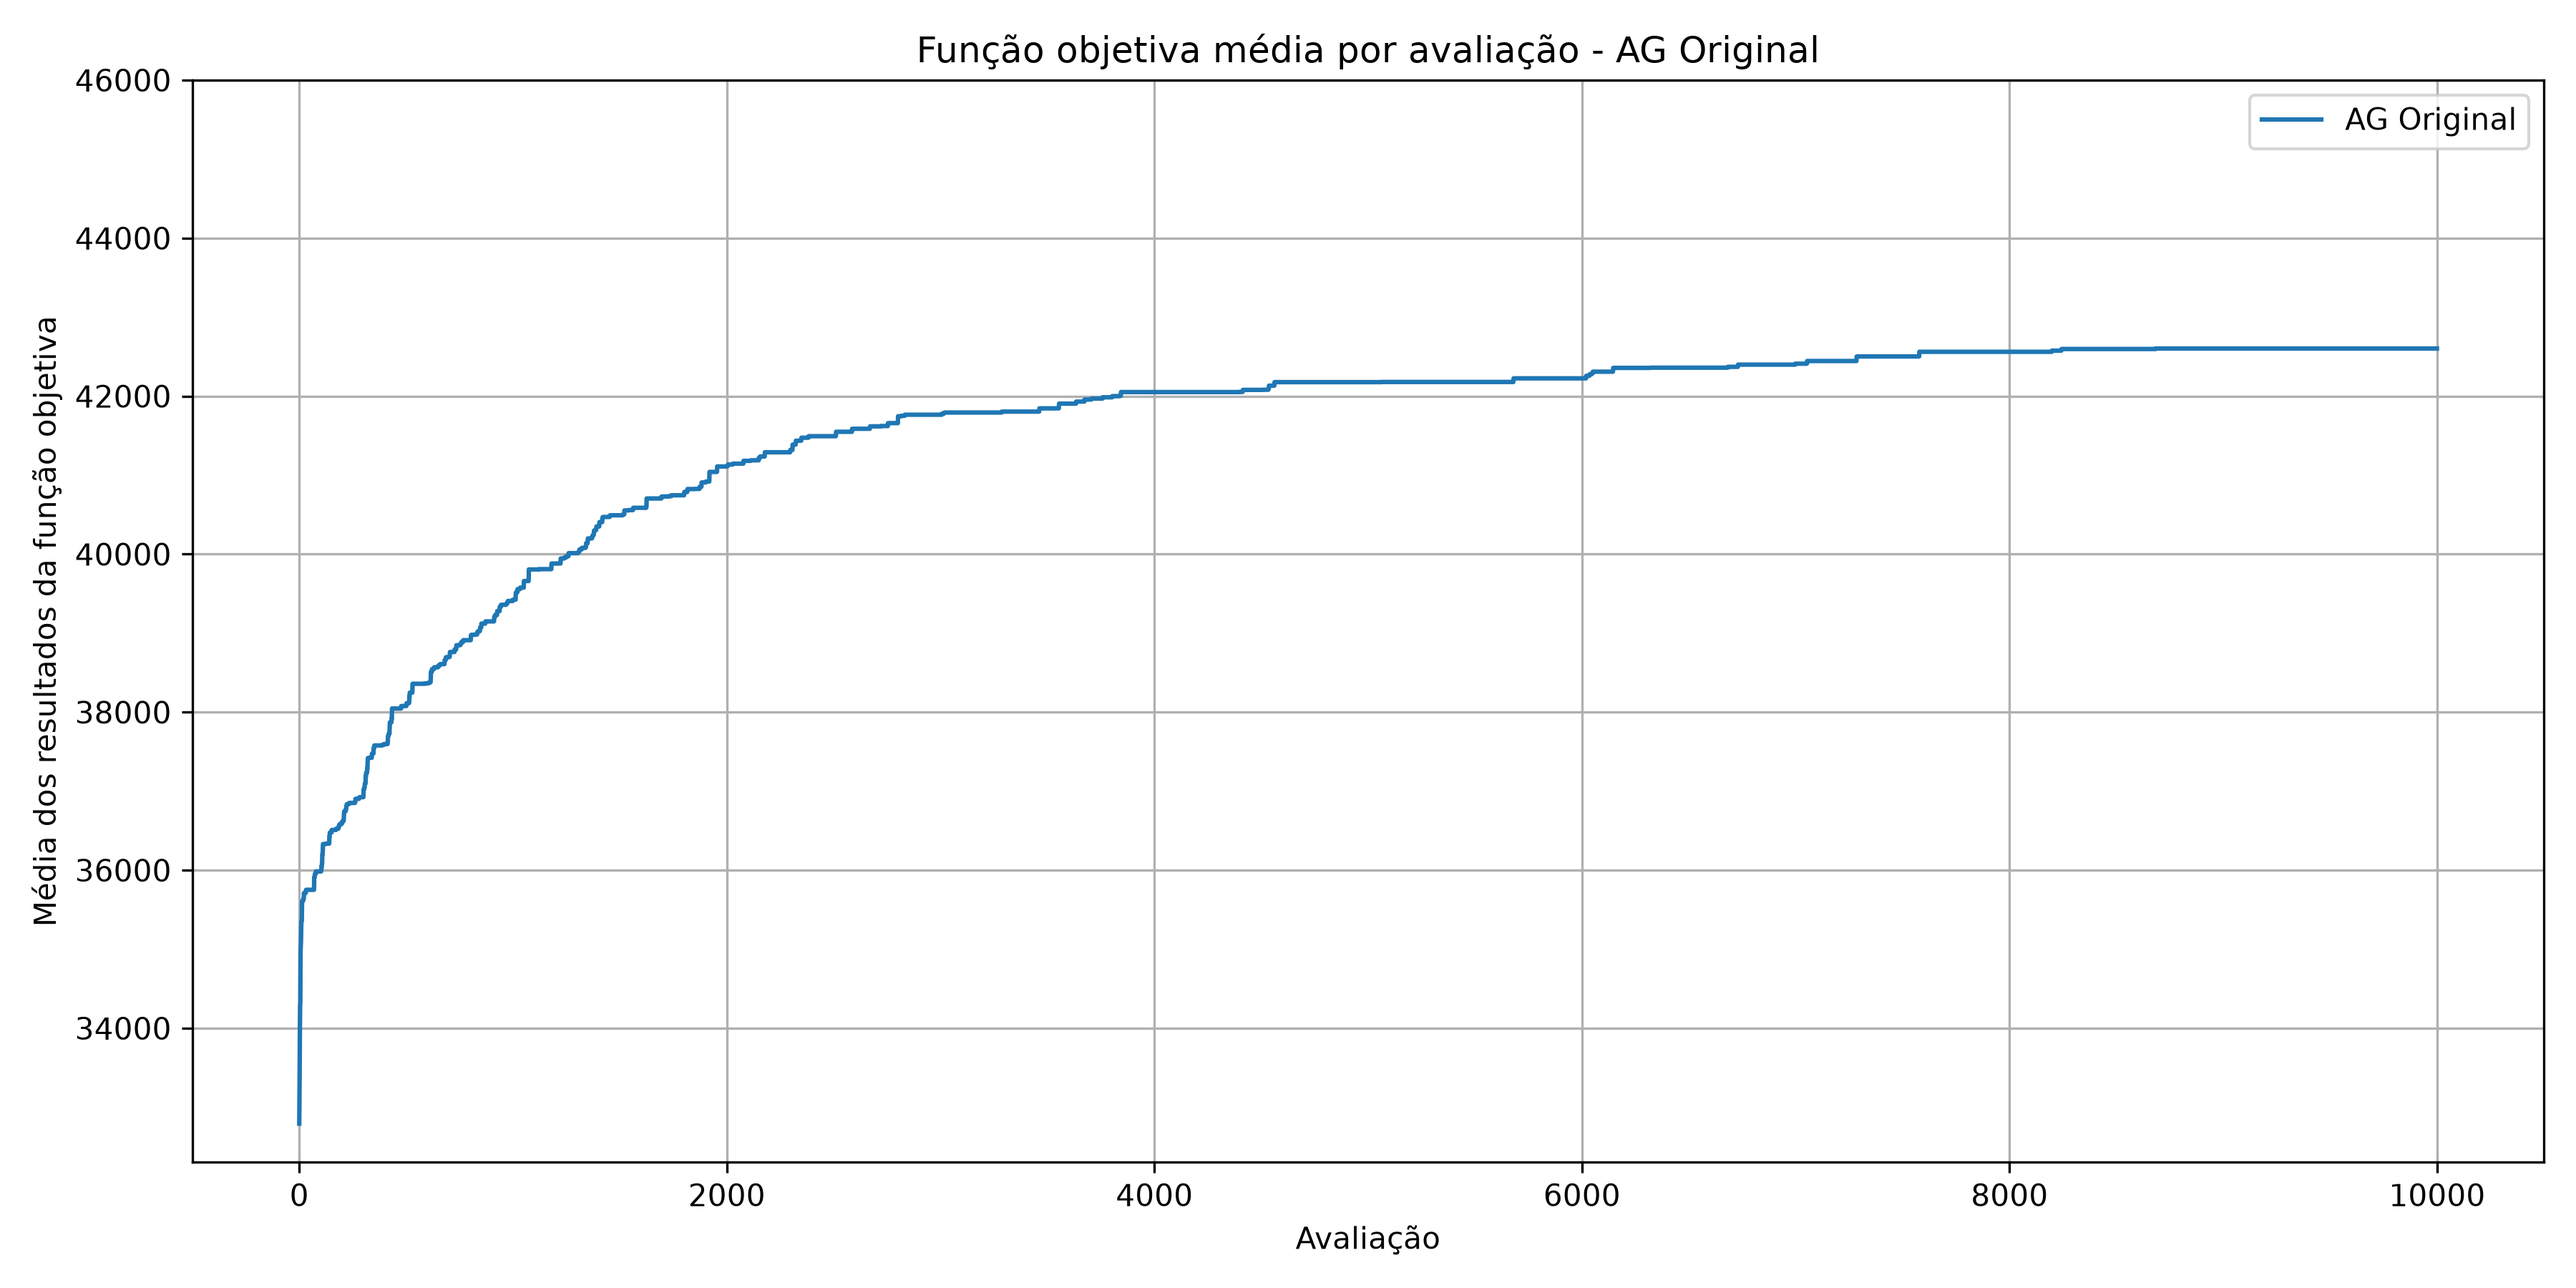
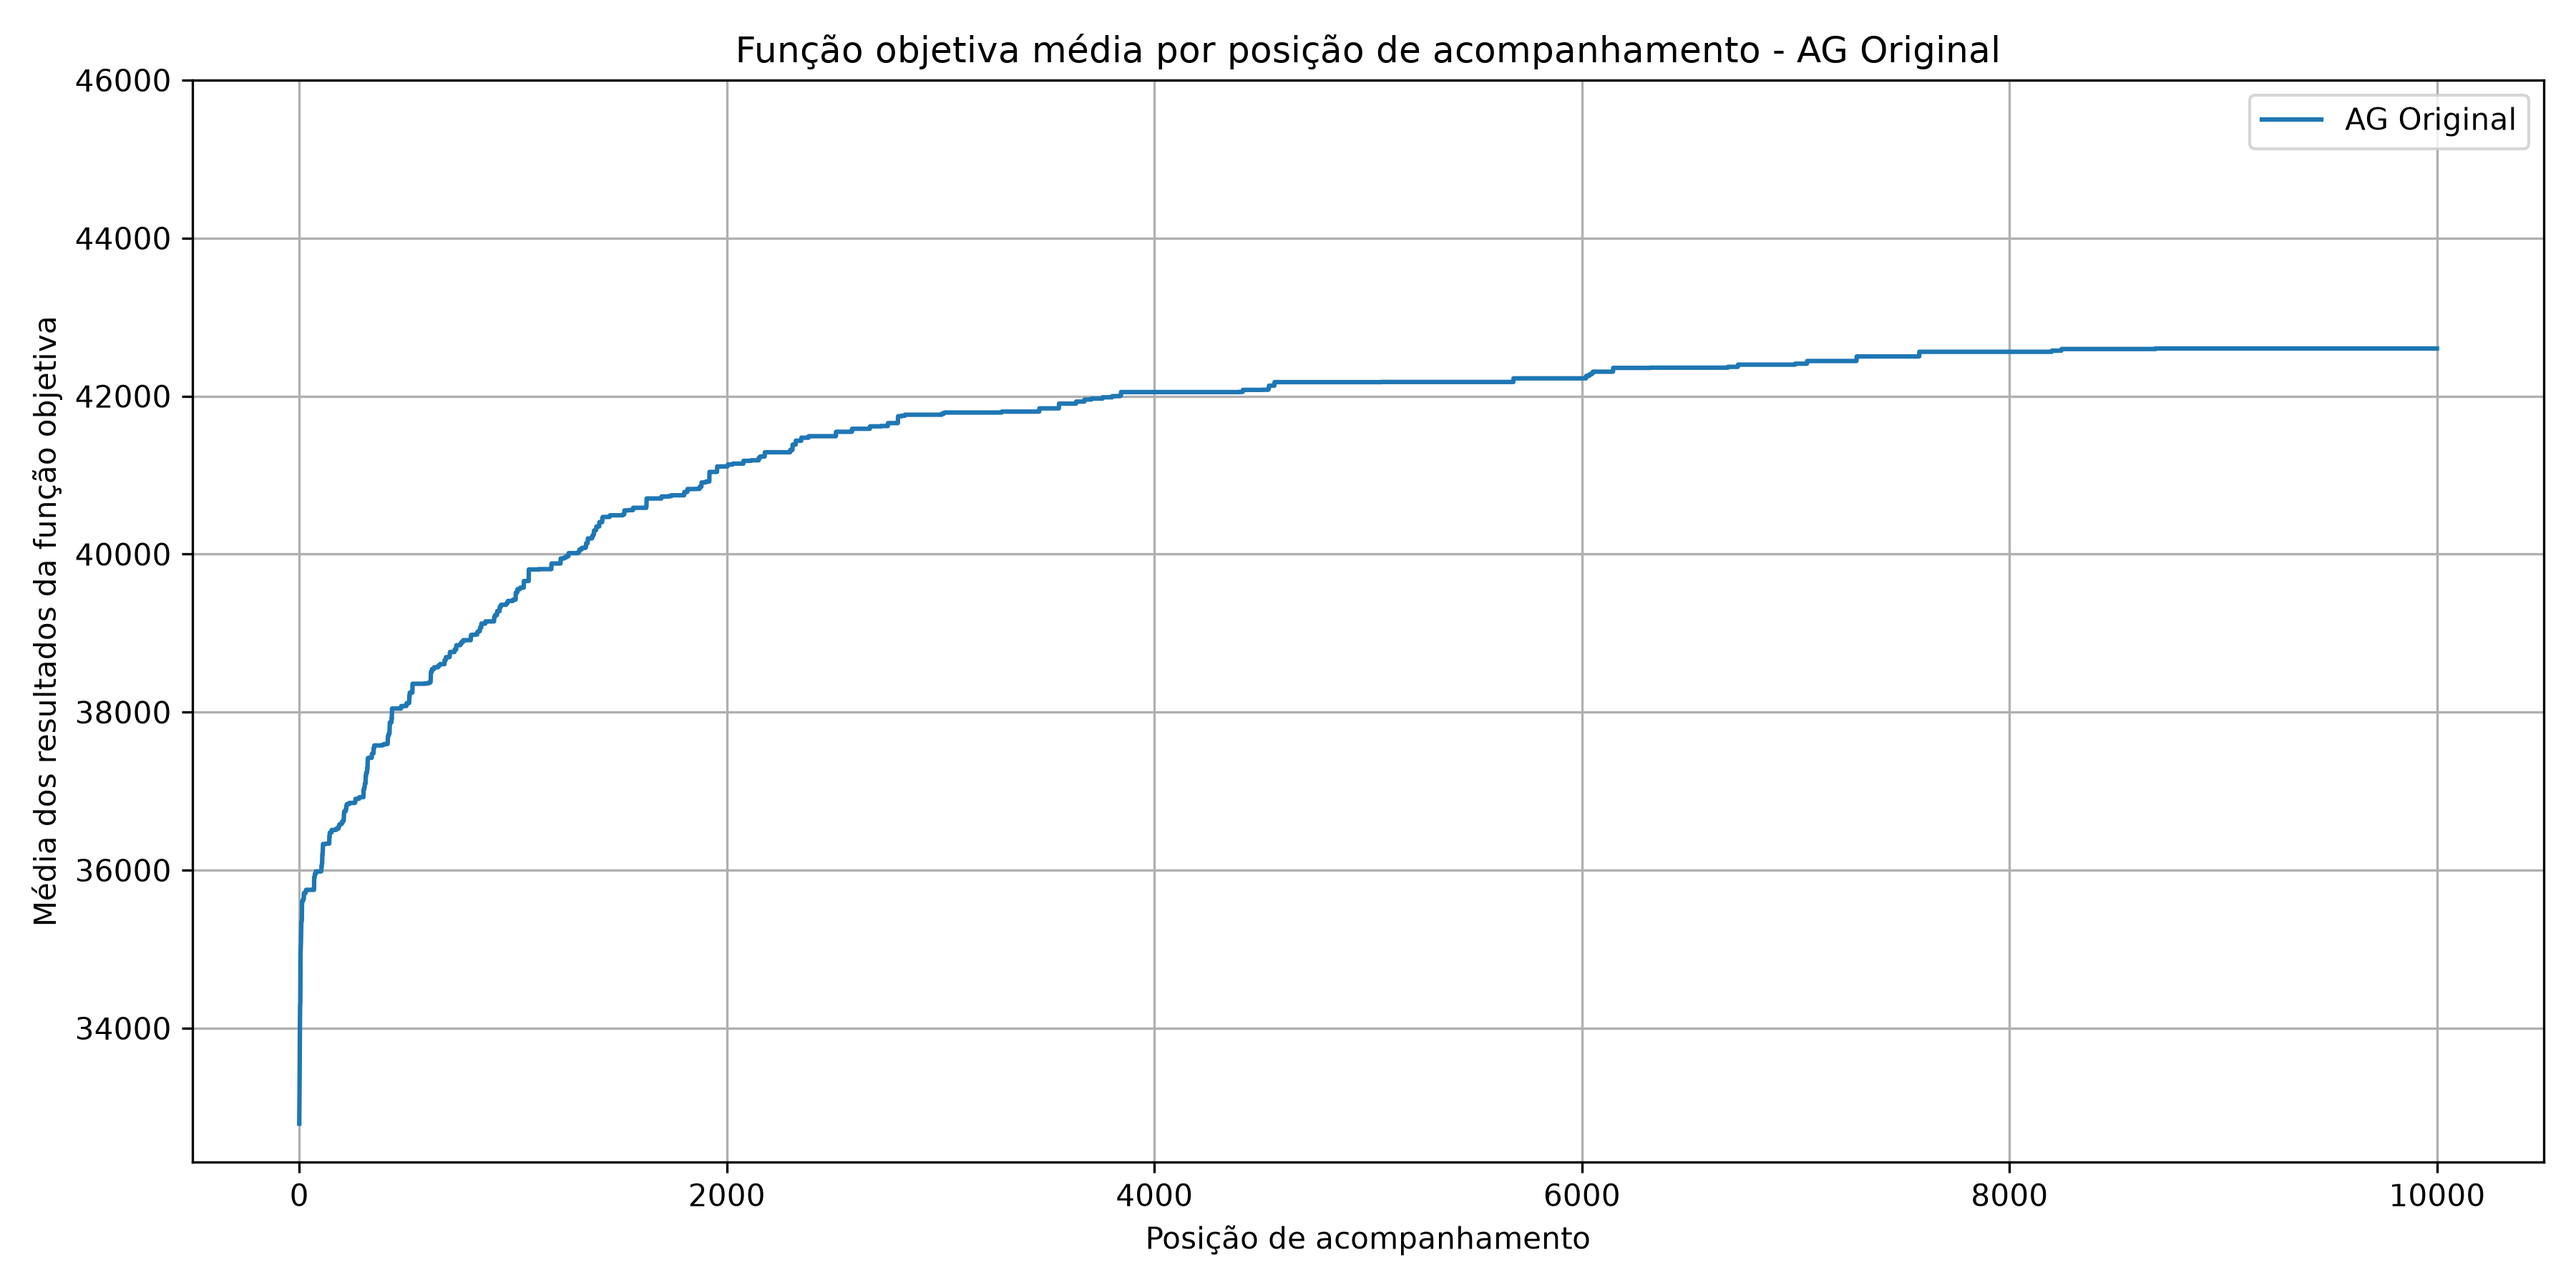
feat:atualizando os graficos

Changed region(s): [[0.28, 0.0311, 0.7778, 0.0622], [0.4356, 0.9333, 0.6222, 0.9956]]

diff --git a/algoritmo_genetico/gerar_graficos_AG.py b/algoritmo_genetico/gerar_graficos_AG.py
@@ -95,7 +95,6 @@ def carregar_csv_resultados(caminho_arquivo):
             f"O arquivo {caminho_arquivo} está vazio."
         )
 
-
     # ------------------------------------------------------
     # Cabeçalho
     # ------------------------------------------------------
@@ -107,14 +106,12 @@ def carregar_csv_resultados(caminho_arquivo):
         for linha in linhas
     )
 
-
     # Caso existam mais colunas do que nomes no cabeçalho
     while len(cabecalho) < maior_tamanho:
 
         cabecalho.append(
             f"ex{len(cabecalho)}"
         )
-
 
     # ------------------------------------------------------
     # Organiza os dados
@@ -129,15 +126,13 @@ def carregar_csv_resultados(caminho_arquivo):
 
         dados.append(linha)
 
-
     df = pd.DataFrame(
         dados,
         columns=cabecalho
     )
 
-
     # ------------------------------------------------------
-    # Primeira coluna = avaliação
+    # Primeira coluna = posição de acompanhamento
     # ------------------------------------------------------
 
     primeira_coluna = df.columns[0]
@@ -148,19 +143,16 @@ def carregar_csv_resultados(caminho_arquivo):
         }
     )
 
-
-    # Converte avaliação para número
+    # Converte posição para número
     df["avaliacao"] = pd.to_numeric(
         df["avaliacao"],
         errors="coerce"
     )
 
-
-    # Remove linhas sem avaliação válida
+    # Remove linhas sem posição válida
     df = df.dropna(
         subset=["avaliacao"]
     )
-
 
     # ------------------------------------------------------
     # Identifica as colunas das execuções
@@ -172,14 +164,12 @@ def carregar_csv_resultados(caminho_arquivo):
         if coluna != "avaliacao"
     ]
 
-
     if len(colunas_execucoes) == 0:
 
         raise ValueError(
             f"O arquivo {caminho_arquivo} não possui "
             f"colunas de execução."
         )
-
 
     # ------------------------------------------------------
     # Converte resultados para números
@@ -192,7 +182,6 @@ def carregar_csv_resultados(caminho_arquivo):
             errors="coerce"
         )
 
-
     # ------------------------------------------------------
     # Calcula a média das execuções
     # ------------------------------------------------------
@@ -204,24 +193,20 @@ def carregar_csv_resultados(caminho_arquivo):
         skipna=True
     )
 
-
-    # Quantidade de execuções válidas naquela avaliação
+    # Quantidade de execuções válidas naquela posição
     df["qtd_execucoes"] = df[
         colunas_execucoes
     ].notna().sum(axis=1)
-
 
     # Remove linhas sem média
     df = df.dropna(
         subset=["media"]
     )
 
-
-    # Ordena pela avaliação
+    # Ordena pela posição de acompanhamento
     df = df.sort_values(
         "avaliacao"
     )
-
 
     return df[
         [
@@ -253,25 +238,22 @@ for nome_algoritmo, caminho_arquivo in ARQUIVOS.items():
 
         continue
 
-
     try:
 
         df = carregar_csv_resultados(
             caminho_arquivo
         )
 
-
         resultados[
             nome_algoritmo
         ] = df
-
 
         print(
             f"{nome_algoritmo}:"
         )
 
         print(
-            f"  Avaliações carregadas: {len(df)}"
+            f"  Posições carregadas: {len(df)}"
         )
 
         print(
@@ -285,7 +267,6 @@ for nome_algoritmo, caminho_arquivo in ARQUIVOS.items():
         )
 
         print()
-
 
     except Exception as erro:
 
@@ -351,11 +332,11 @@ for nome_algoritmo, df in resultados.items():
 
 
 plt.title(
-    "Função objetiva média por avaliação"
+    "Função objetiva média por posição de acompanhamento"
 )
 
 plt.xlabel(
-    "Avaliação"
+    "Posição de acompanhamento"
 )
 
 plt.ylabel(
@@ -420,7 +401,6 @@ for nome_algoritmo, df in resultados.items():
         figsize=(12, 6)
     )
 
-
     plt.plot(
         df["avaliacao"],
         df["media"],
@@ -428,17 +408,14 @@ for nome_algoritmo, df in resultados.items():
         color=CORES[nome_algoritmo]
     )
 
-
     plt.title(
-        f"Função objetiva média por avaliação - "
+        f"Função objetiva média por posição de acompanhamento - "
         f"{nome_algoritmo}"
     )
 
-
     plt.xlabel(
-        "Avaliação"
+        "Posição de acompanhamento"
     )
-
 
     plt.ylabel(
         "Média dos resultados da função objetiva"
@@ -492,7 +469,6 @@ for nome_algoritmo, df in resultados.items():
     serie = df.set_index(
         "avaliacao"
     )["media"]
-
 
     comparativo[
         nome_algoritmo
